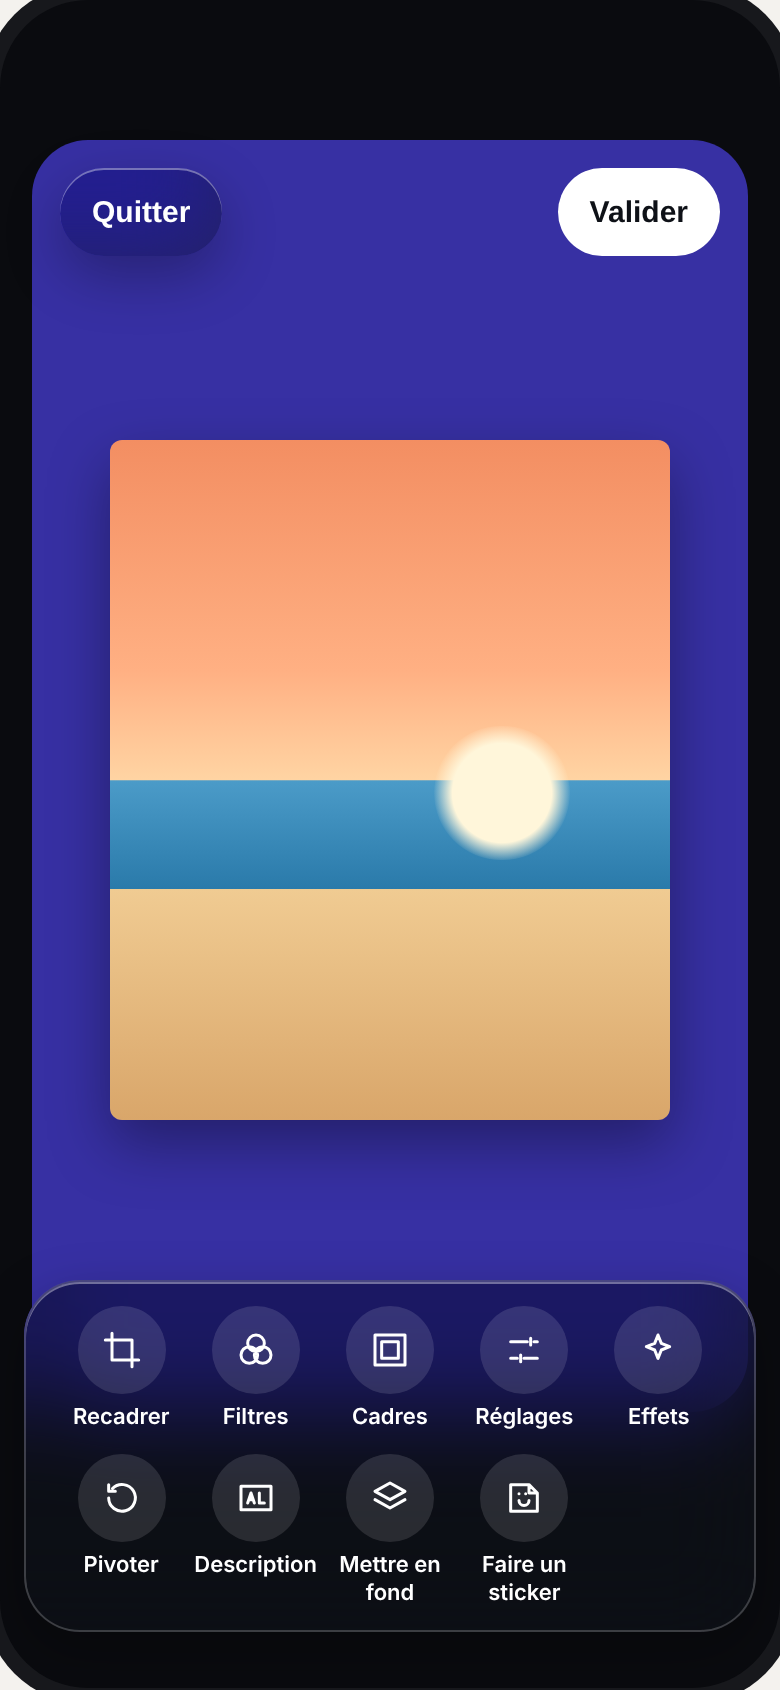
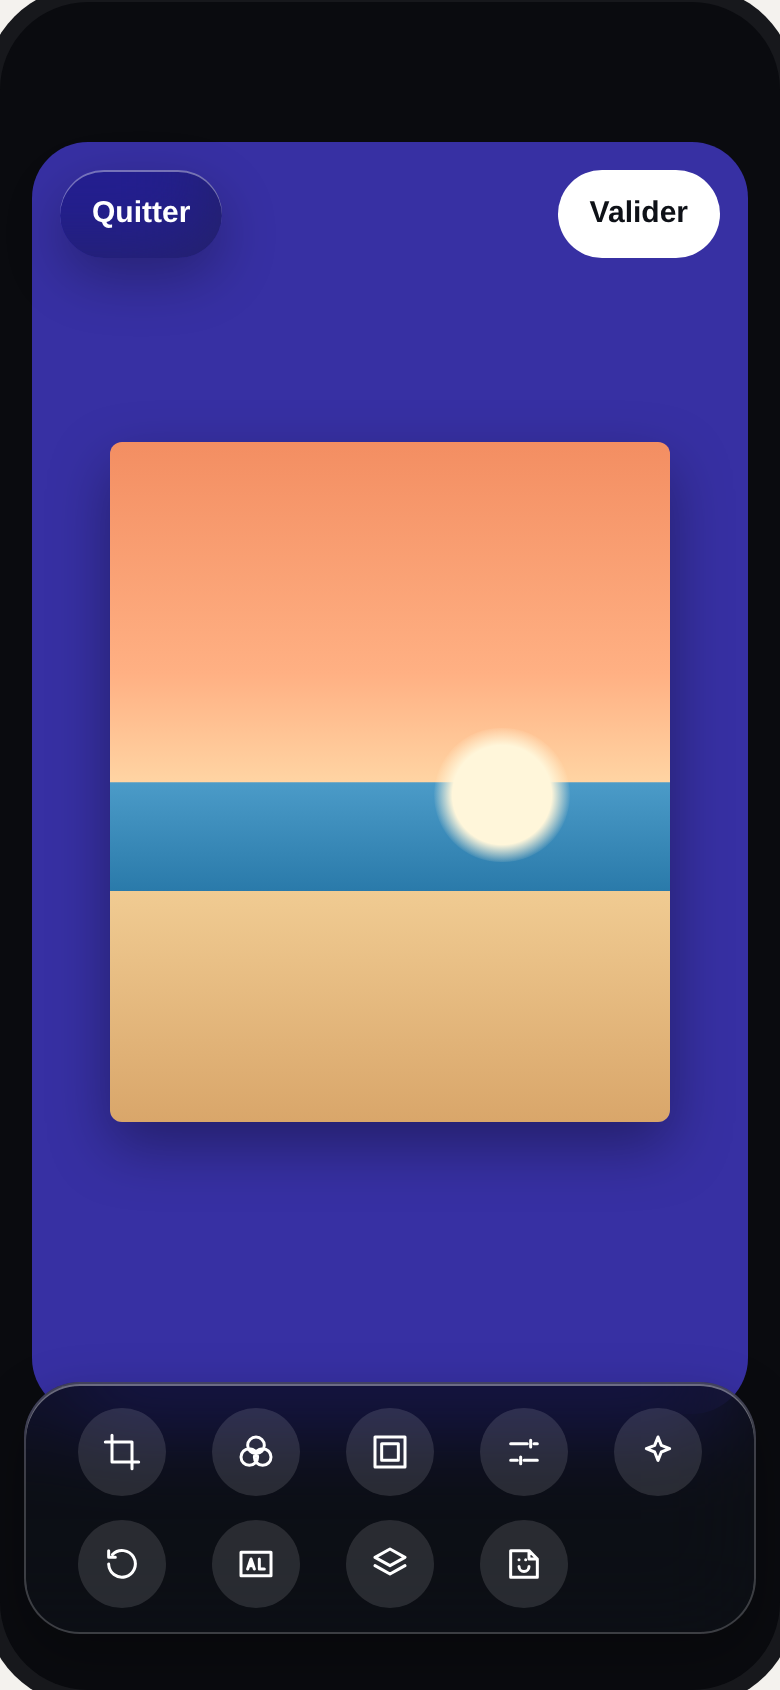
docs(composer): les plaques de Modifier et de la frise montrent des icônes seules
La planche annonce que les boutons ronds n'ont pas de légende ; O4 et S9
en portaient encore. Le nom reste lu par l'accessibilité.

Refs #17312

Claude-Session: https://claude.ai/code/session_017Zypwsj4qB9NVtgUt5HRG3

Changed region(s): [[0.0308, 0.7385, 0.9846, 0.9538], [0.9538, 0.9846, 0.9846, 1.0]]

diff --git a/docs/product/composer-vue-finale/planche.html b/docs/product/composer-vue-finale/planche.html
@@ -301,7 +301,7 @@ const S=[
 {id:'O3',t:'Glisser : repères, duplication et poubelle',d:'Pendant le geste, l’en-tête, la pilule et les rails disparaissent. Il reste les lignes d’aimantation et deux cibles : la duplication en haut, la poubelle en bas, à la place de la pilule. Lois 6 et 13.',html:phone(scene({objs:[TXT(),MEE({x:123,y:330,halo:true})]})+`<div class="abs" style="left:${16+179}px;top:70px;width:1.5px;height:636px;background:#FFD23F"></div>`+dropZone('dup','Déposer ici pour dupliquer',84)+dropZone('trash','Déposer ici pour retirer',756)+finger(206,470))},
 {id:'O12',t:'Lâcher sur la poubelle',d:'L’objet amené sur la poubelle rétrécit, la poubelle grossit et rougit avec un retour haptique ; lâcher le retire. ↶ le ramène. Vaut pour tout objet de la scène : texte, sticker, média, dessin, son. Loi 6.',html:phone(scene({objs:[TXT()]})+dropZone('dup','Déposer ici pour dupliquer',84)+`<div class="abs" style="left:163px;top:700px;opacity:.75">${MEE({x:0,y:0,s:64,halo:true}).replace('class="abs"','')}</div>`+dropZone('trash','Lâcher pour retirer',756,{hot:true,red:true})+finger(214,770))},
 {id:'O13',t:'Lâcher sur la duplication',d:'L’objet amené sur la cible du haut y laisse une copie identique, posée par-dessus l’original (un rang au-dessus), et revient à sa place. La copie est sélectionnée, sa pilule s’affiche. Loi 6.',html:phone(scene({objs:[TXT(),MEE({x:196,y:420}),MEE({x:222,y:446,halo:true})]})+head({close:false,undo:true})+`<div class="annot" style="left:60px;top:590px;width:150px">La copie est au-dessus de l’original</div>`+objPill())},
-{id:'O4',t:'Modifier une photo',d:'Mode plein écran Quitter · Valider ; la photo reste manipulable au doigt, ses outils vivent dans la plaque basse. Loi 9.',html:phone(scene({bg:'#3730A3',objs:[PHOTO({halo:true})]})+modeHead()+plaque(`<div style="display:grid;grid-template-columns:repeat(5,1fr);row-gap:12px">${[['crop','Recadrer'],['filter','Filtres'],['frame','Cadres'],['sliders','Réglages'],['fx','Effets'],['rotate','Pivoter'],['alt','Description'],['layer','Mettre en fond'],['sticker','Faire un sticker']].map(([k,l])=>`<span style="display:flex;flex-direction:column;align-items:center;gap:4px;font-size:11px;font-weight:600;text-align:center">${B(k,l,'soft',44)}${l}</span>`).join('')}</div>`))},
+{id:'O4',t:'Modifier une photo',d:'Mode plein écran Quitter · Valider ; la photo reste manipulable au doigt, ses outils vivent dans la plaque basse, en icônes seules (leur nom est lu par VoiceOver). Loi 9.',html:phone(scene({bg:'#3730A3',objs:[PHOTO({halo:true})]})+modeHead()+plaque(`<div style="display:grid;grid-template-columns:repeat(5,1fr);row-gap:12px">${[['crop','Recadrer'],['filter','Filtres'],['frame','Cadres'],['sliders','Réglages'],['fx','Effets'],['rotate','Pivoter'],['alt','Description'],['layer','Mettre en fond'],['sticker','Faire un sticker']].map(([k,l])=>`<span style="display:flex;justify-content:center">${B(k,l,'soft',44)}</span>`).join('')}</div>`))},
 {id:'O5',t:'Réglages',d:'Onze curseurs, Réinitialiser, et un appui maintenu sur la photo pour comparer avec l’original. Loi 9.',html:phone(scene({bg:'#3730A3',objs:[PHOTO({f:'brightness(1.1) saturate(1.3) contrast(1.1)'})]})+modeHead()+plaque(`<div class="xph"><b style="font-size:15px">Réglages</b><span style="font-size:13px;font-weight:700;color:#A5B4FC">Réinitialiser</span></div><div style="display:grid;grid-template-columns:1fr 1fr;gap:12px 18px">${[['Exposition',55],['Luminosité',62],['Contraste',58],['Saturation',70],['Vibrance',50],['Température',44],['Netteté',30],['Flou',0],['Vignette',20],['Bloom',10],['Grain',15]].map(([n,v])=>slider(n,v)).join('')}</div><span class="sub" style="text-align:center">Maintenez la photo pour comparer</span>`))},
 {id:'O6',t:'Filtres',d:'Une rangée de vignettes, la photo prend le filtre en direct. Loi 9.',html:phone(scene({bg:'#3730A3',objs:[PHOTO({f:FILTERS['Chaud']})]})+modeHead()+plaque(`<div class="xph"><b style="font-size:15px">Filtres</b></div>${ftiles(['Aucun','Vintage','N&B','Chaud','Froid','Dramatique','Vif','Fané','Chrome'],3,{w:50,h:64})}`))},
 {id:'O7',t:'Recadrer',d:'Poignées d’angle sur la photo et proportions en puces ; l’extérieur du cadrage s’assombrit. Loi 9.',html:phone(scene({bg:'#3730A3',objs:[PHOTO({x:30,y:130,w:300,h:380}),`<div class="abs" style="left:30px;top:130px;width:300px;height:380px;box-shadow:inset 0 0 0 0 #000"></div><div class="abs" style="left:30px;top:130px;width:300px;height:60px;background:rgba(0,0,0,.55)"></div><div class="abs" style="left:30px;top:450px;width:300px;height:60px;background:rgba(0,0,0,.55)"></div><div class="abs" style="left:30px;top:190px;width:300px;height:260px;border:1.5px solid #fff;background-image:linear-gradient(90deg,transparent 33%,rgba(255,255,255,.45) 33% calc(33% + 1px),transparent 0,transparent 66%,rgba(255,255,255,.45) 66% calc(66% + 1px),transparent 0),linear-gradient(180deg,transparent 33%,rgba(255,255,255,.45) 33% calc(33% + 1px),transparent 0,transparent 66%,rgba(255,255,255,.45) 66% calc(66% + 1px),transparent 0)"></div>${[[24,184,'M0 24V0h24'],[306,184,'M0 0h24v24'],[24,426,'M0 0v24h24'],[306,426,'M24 0v24H0']].map(([x,y,d])=>`<svg class="abs" style="left:${x}px;top:${y}px" width="30" height="30" viewBox="-3 -3 30 30" aria-hidden="true"><path d="${d}" stroke="#fff" stroke-width="5" fill="none"/></svg>`).join('')}`]})+modeHead()+plaque(`<div class="xph"><b style="font-size:15px">Recadrer</b>${B('rotate','Pivoter','soft',40)}</div>${chips(['Original','9:16','4:5','Carré','Paysage'],4)}`))},
@@ -319,7 +319,7 @@ const S=[
 {id:'S6',t:'Légende (story)',d:'En story, la légende se pose sur la scène, en bas, et s’écrit avec la barre du clavier. Lois 3, 10 et 13.',html:phone(above(KBTOP-58,{objs:[TXT(),MEE({y:300,x:220}),`<div class="abs" style="left:24px;right:24px;bottom:40px;padding:14px 18px;border-radius:18px;background:rgba(0,0,0,.5);font-size:26px;font-weight:600;line-height:1.3">Premier coucher de soleil à Ngor<span class="caret"></span></div>`]})+kbar()+kb())},
 {id:'S7',t:'Texte du post (post)',d:'En post, Texte du post remplace Légende dans le rail droit ; il s’écrit dans une feuille avec compteur, la barre collée au clavier. Pendant l’écriture, aucun rail (loi 13). Lois 3, 10 et 13.',html:phone(above(250,{objs:STD})+`<div class="sheet" style="top:250px;bottom:${291}px;border-radius:28px 28px 0 0"><div class="sh"><span style="display:flex;gap:8px;align-items:center">${ic('post',20,'#fff')}Texte du post</span><span class="sub" style="font-size:13px">142 / 1000</span></div><div style="font-size:16px;line-height:23px">Enfin de retour à Dakar après deux ans. Le premier soir, direction Ngor pour voir le soleil plonger dans l’océan avec @karim.<span class="caret"></span></div></div>`+kbar(null,{items:[['at','Mention'],['hash','Hashtag']]})+kb())},
 {id:'S8',t:'Animation : la frise',d:'Mode plein écran Quitter · Valider. Chaque piste montre son contenu réel : les vignettes du fond, le texte, le sticker, l’onde du son. La tête de lecture suit la lecture, on pince pour zoomer le temps, et une piste qu’on glisse s’aimante aux bords voisins avec un retour haptique. Loi 9.',html:phone(scene({h:400,y:70,objs:STD})+modeHead()+plaque(timeline({w:338,snap:.6,ph:.3})))},
-{id:'S9',t:'Frise : un objet choisi',d:'La piste du sticker s’éclaire et prend ses poignées, ses images clés en losanges ; les autres s’effacent. Entre ici, Sort ici, Couper, Dupliquer, Retirer. Loi 9.',html:phone(scene({h:370,y:70,objs:[TXT(),MEE({halo:true})]})+modeHead()+plaque(timeline({w:338,sel:'Sticker',keys:[.27,.4,.53],ph:.4})+`<div style="display:flex;justify-content:space-between">${[['enter','Entre ici'],['exit','Sort ici'],['cut','Couper'],['dup','Dupliquer'],['trash','Retirer']].map(([k,l])=>`<span style="display:flex;flex-direction:column;align-items:center;gap:4px;font-size:11px;font-weight:600;${k==='trash'?'color:#FF8A8C':''}">${B(k,l,k==='trash'?'red':'soft',40)}${l}</span>`).join('')}</div>`))},
+{id:'S9',t:'Frise : un objet choisi',d:'La piste du sticker s’éclaire et prend ses poignées, ses images clés en losanges ; les autres s’effacent. Entre ici, Sort ici, Couper, Dupliquer, et Retirer en dernier, en icônes seules. Loi 9.',html:phone(scene({h:370,y:70,objs:[TXT(),MEE({halo:true})]})+modeHead()+plaque(timeline({w:338,sel:'Sticker',keys:[.27,.4,.53],ph:.4})+`<div style="display:flex;justify-content:space-between">${[['enter','Entre ici'],['exit','Sort ici'],['cut','Couper'],['dup','Dupliquer'],['trash','Retirer']].map(([k,l])=>`${B(k,l,k==='trash'?'red':'soft',40)}`).join('')}</div>`))},
 {id:'S10',t:'Aperçu',d:'La lecture plein écran, comme le lecteur : barres de progression des scènes et « Revenir au composer ». Loi 3 (Plus).',html:phone(scene({x:-42,y:0,h:844,br:0,objs:STD})+`<div class="abs" style="left:12px;right:12px;top:54px;display:flex;gap:4px">${[1,.45,0].map(v=>`<span style="flex:1;height:3px;border-radius:2px;background:rgba(255,255,255,.4);overflow:hidden"><i style="display:block;height:100%;width:${v*100}%;background:#fff"></i></span>`).join('')}</div><div class="abs" style="left:14px;top:70px;display:flex;gap:8px;align-items:center;font-size:14px;font-weight:700;text-shadow:0 1px 4px rgba(0,0,0,.5)">${AV(3,32)}Votre story · aperçu</div><button class="ctl glass deep abs" style="left:50%;transform:translateX(-50%);bottom:40px">${ic('back',18,'#fff')}Revenir au composer</button>`)}
 ]},
 {h:'Publier et brouillons',lead:'Publier, c’est voir partir : la pilule montre la progression, l’absence de réseau, l’échec partiel. Fermer un brouillon non vide demande ce qu’on garde.',b:[
